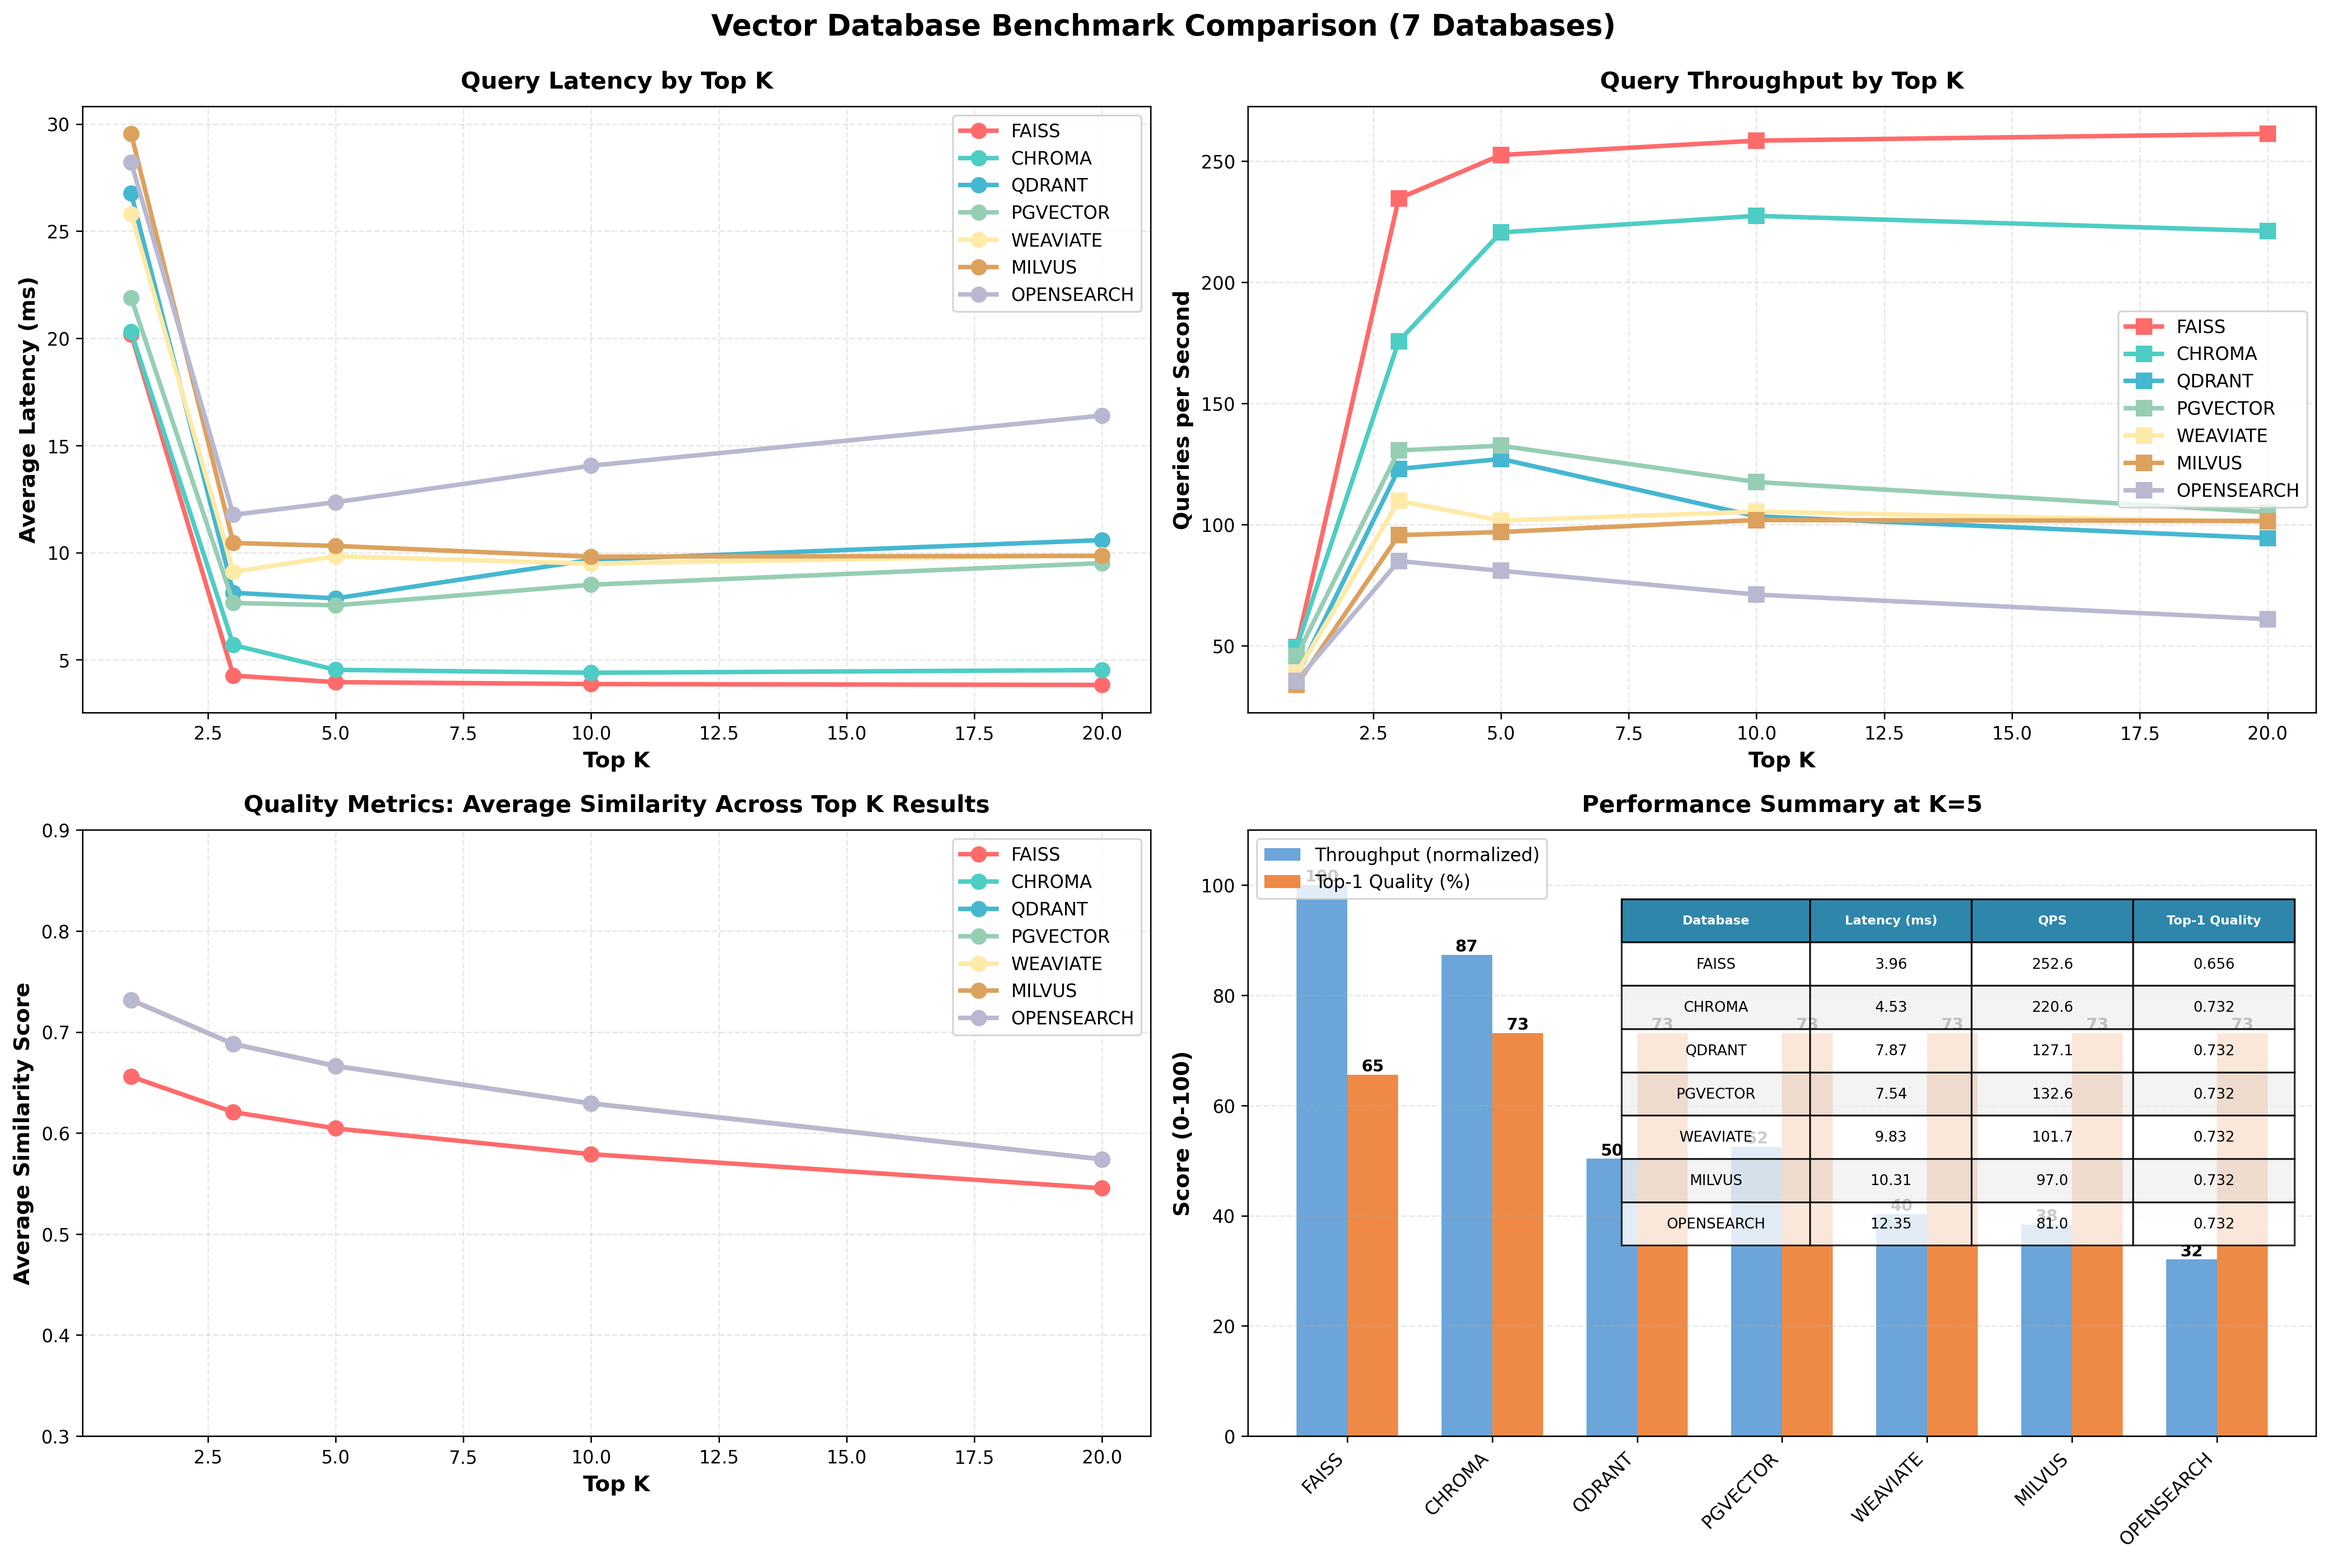
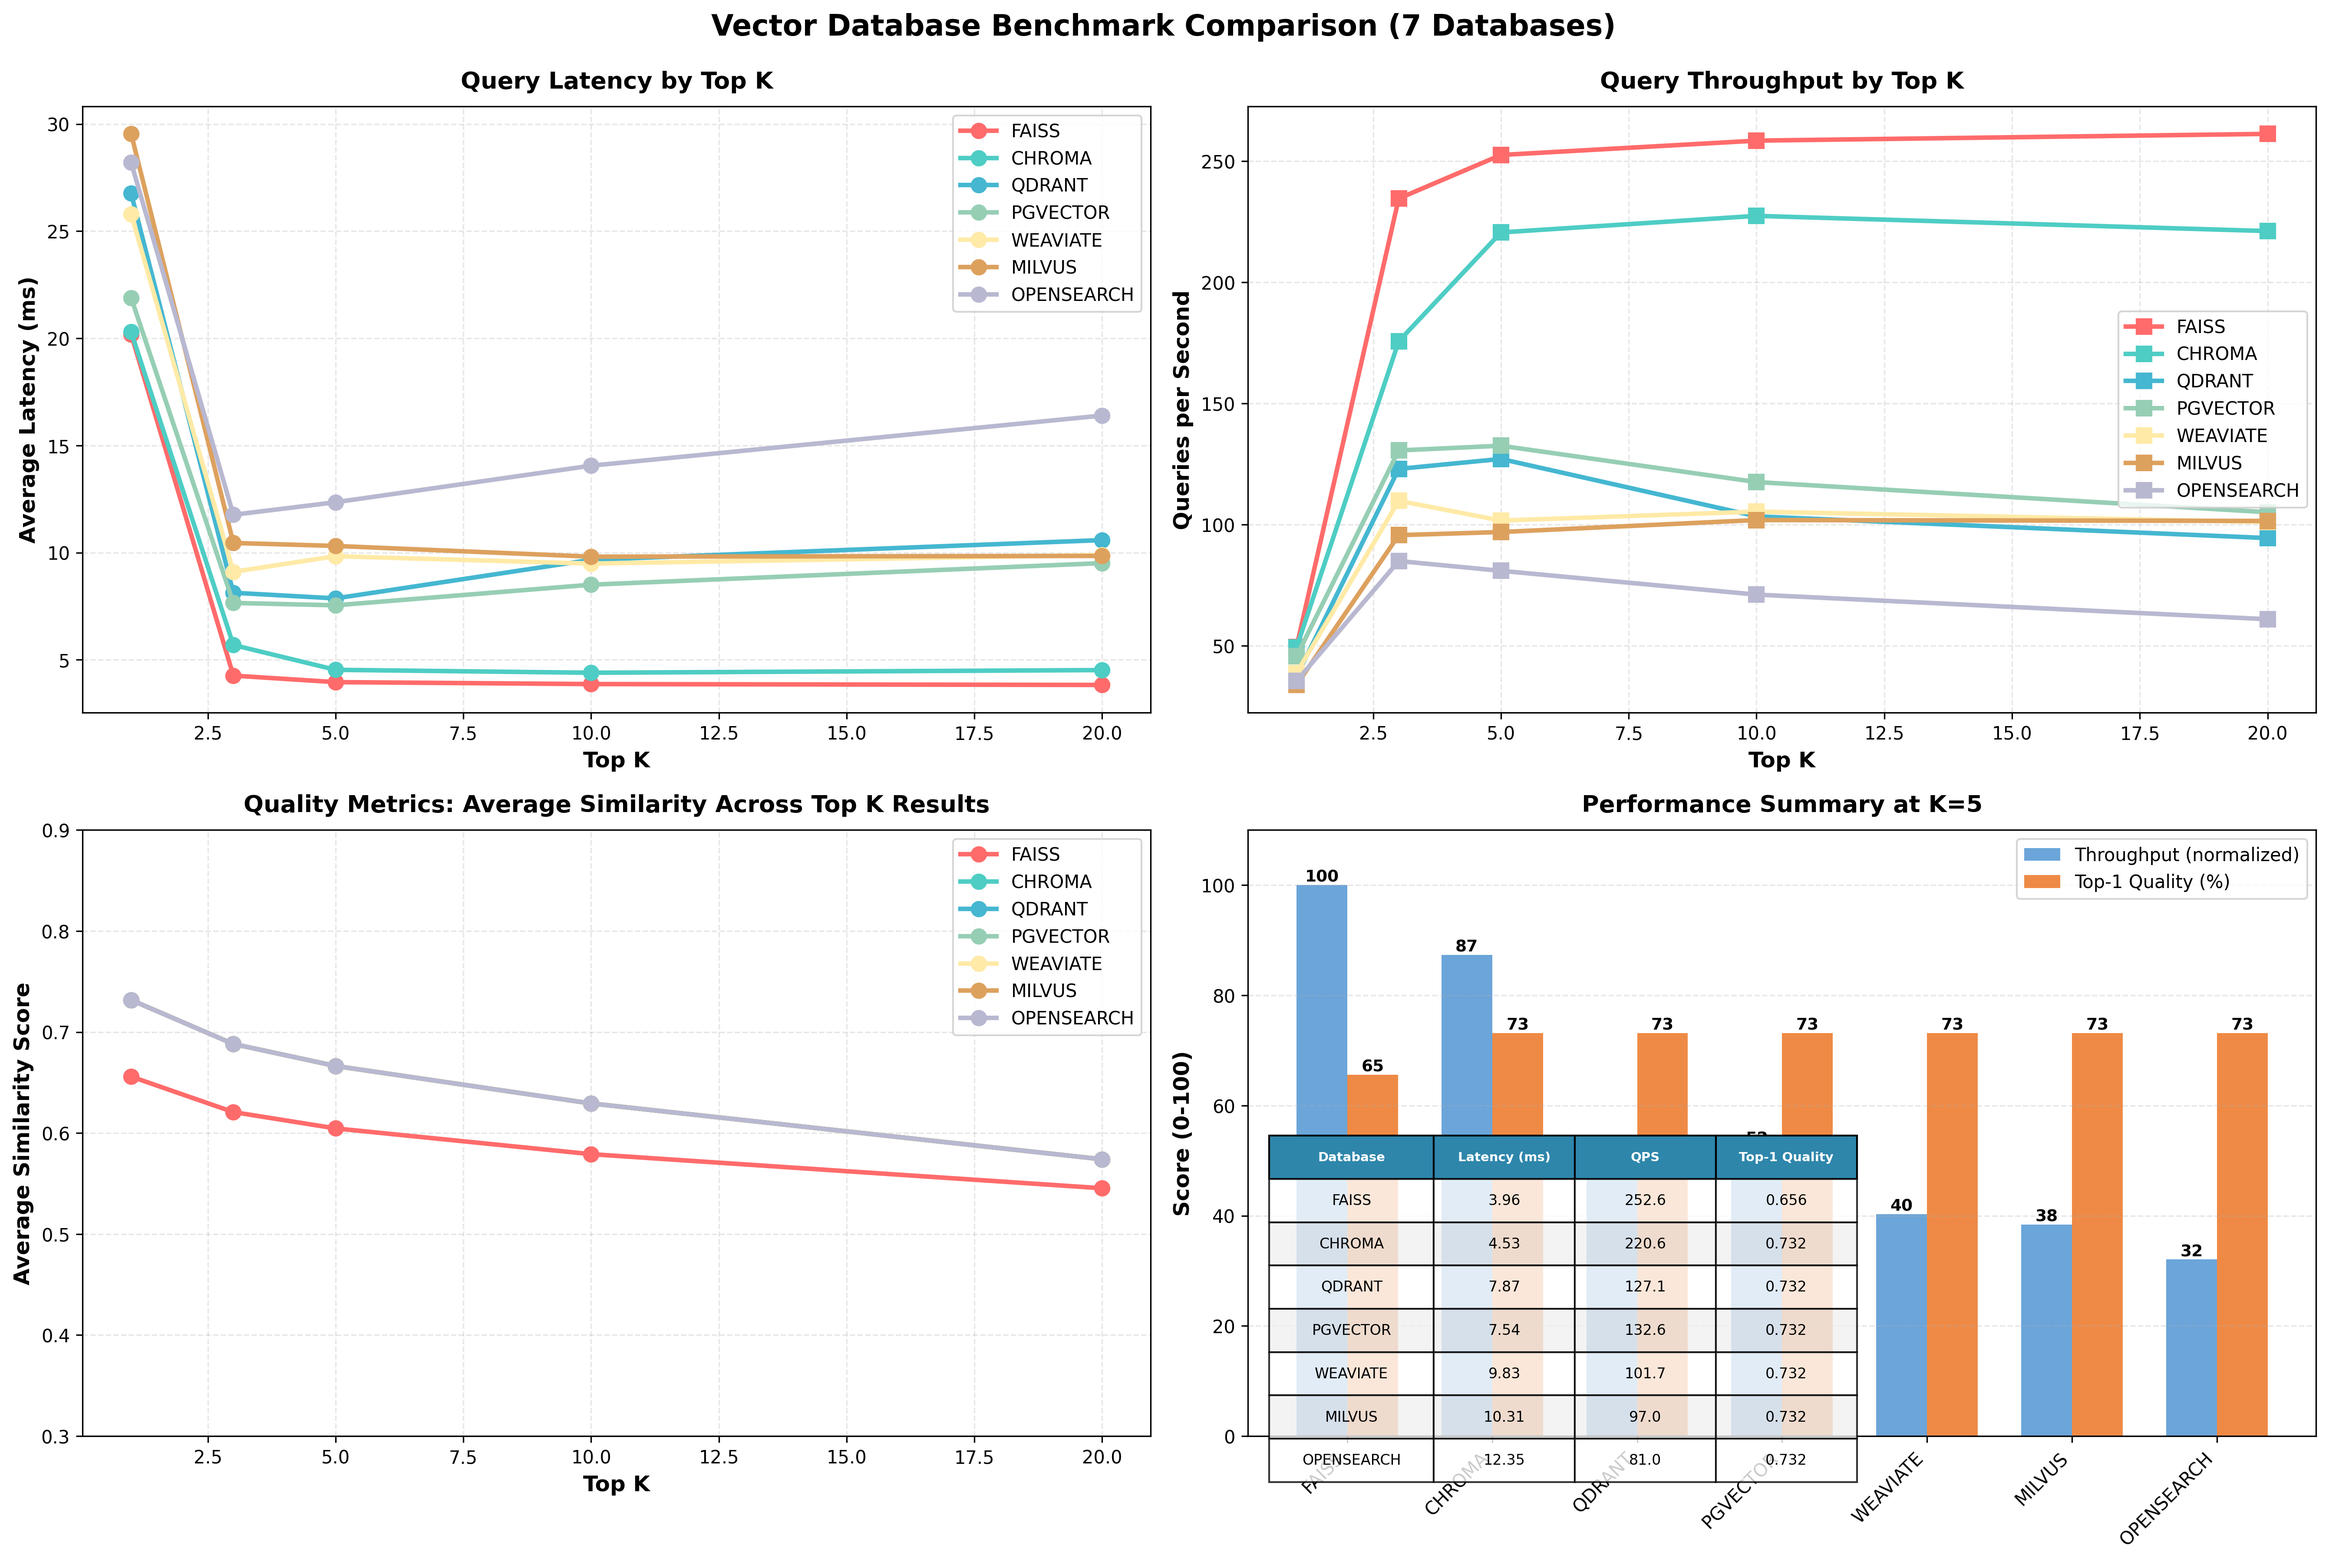
Reposition table and legend in query comparison plot
Layout improvements to Performance Summary panel:
- Moved data table to bottom-left (was middle-right)
- Table positioned below y=45 to avoid overlap with bars
- Moved legend to top-right (was upper-left)
- Cleaner visualization with better readability

🤖 Generated with [Claude Code](https://claude.com/claude-code)

Changed region(s): [[0.5293, 0.5293, 0.9963, 0.9652], [0.5293, 0.5293, 0.6538, 0.5916]]

diff --git a/Scripts/recreate_query_comparison.py b/Scripts/recreate_query_comparison.py
@@ -157,7 +157,7 @@ def create_comparison_plot(results, output_path):
         ax4.set_title('Performance Summary at K=5', fontsize=13, fontweight='bold', pad=10)
         ax4.set_xticks(x)
         ax4.set_xticklabels(dbs, rotation=45, ha='right', fontsize=10)
-        ax4.legend(fontsize=10, loc='upper left')
+        ax4.legend(fontsize=10, loc='upper right')
         ax4.set_ylim([0, 110])
         ax4.grid(axis='y', alpha=0.3, linestyle='--')
 
@@ -172,8 +172,8 @@ def create_comparison_plot(results, output_path):
                 f"{data.get('avg_top1_similarity', 0):.3f}"
             ])
 
-        # Position table in the middle-right area
-        table_ax = ax4.inset_axes([0.35, 0.35, 0.63, 0.5])
+        # Position table in the bottom-left area, max height at y=45
+        table_ax = ax4.inset_axes([0.02, 0.02, 0.55, 0.38])
         table_ax.axis('off')
 
         table = table_ax.table(
